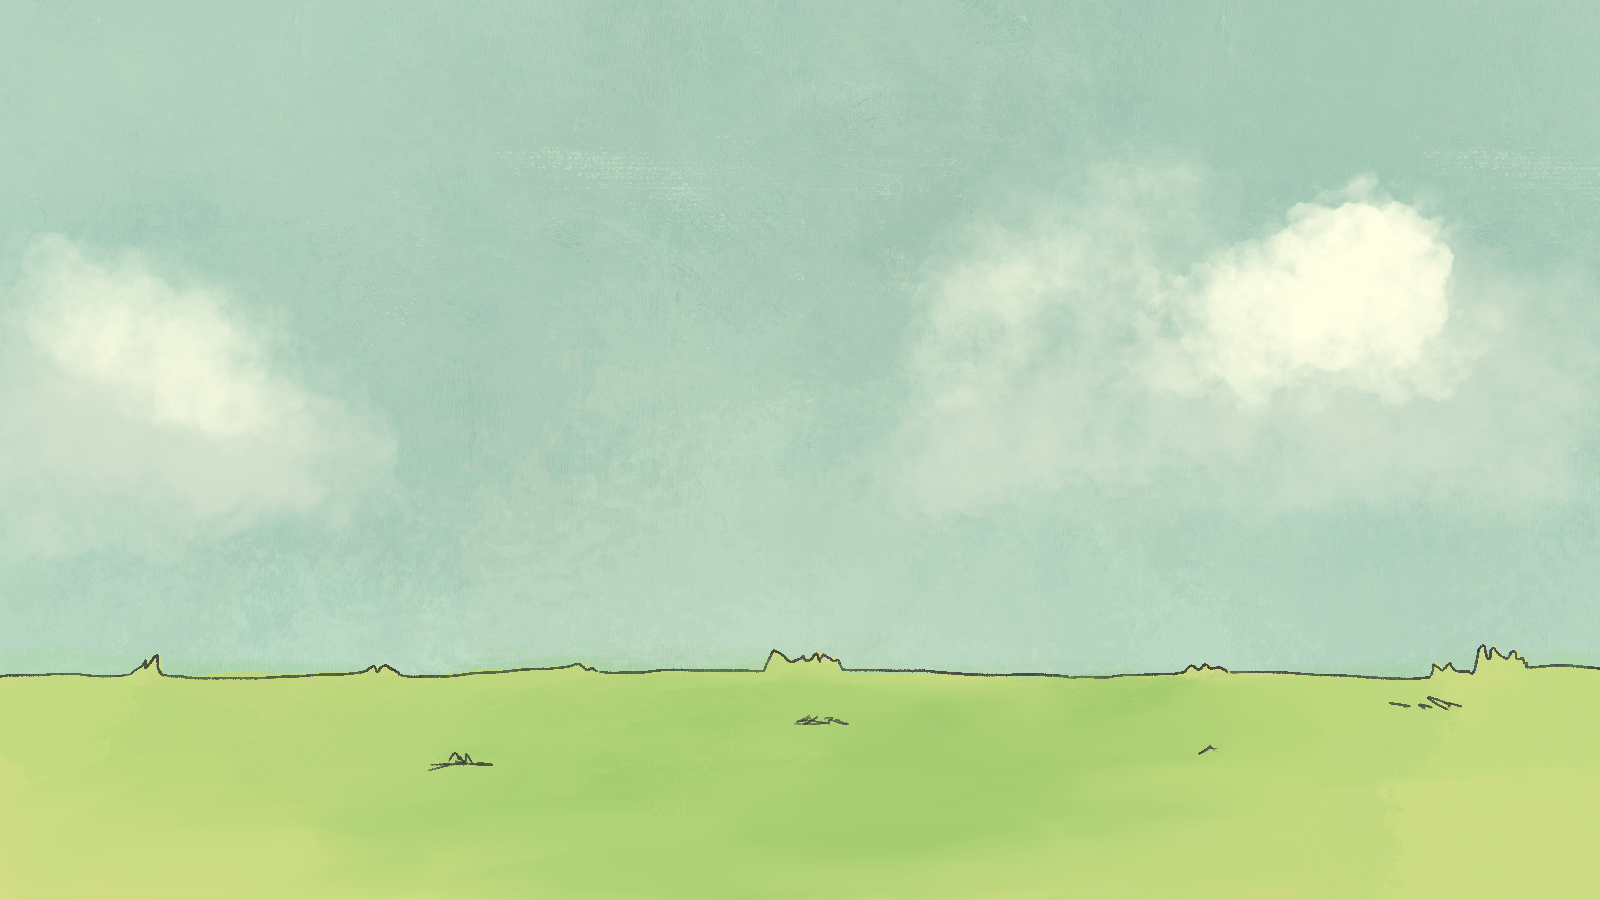
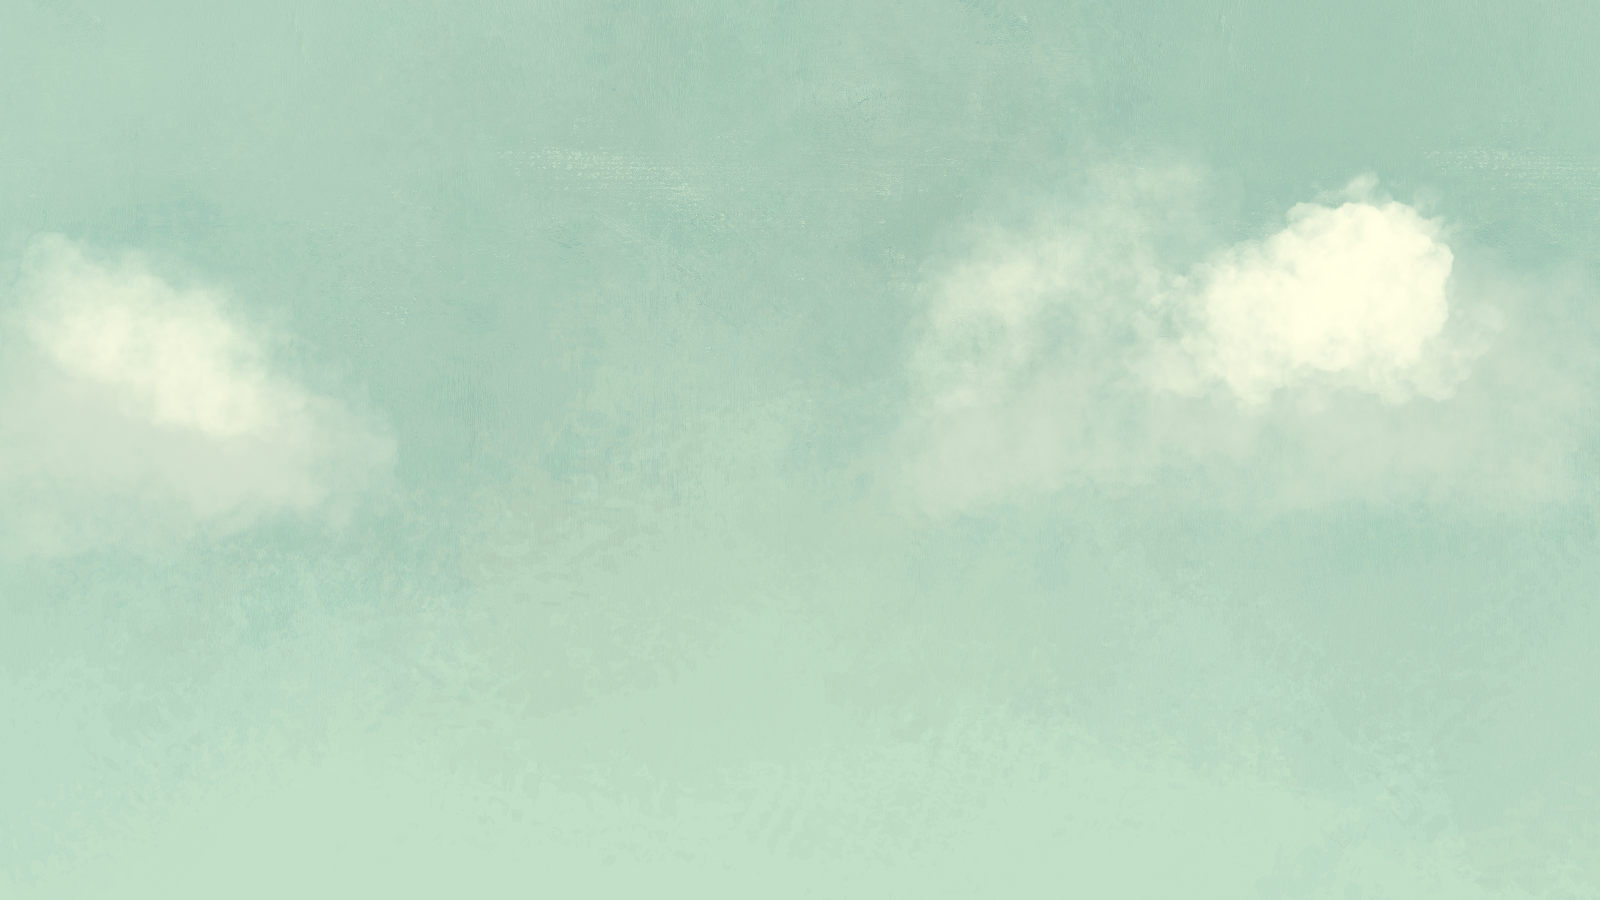
add backgrounds to game

Changed region(s): [[0.0, 0.7156, 1.0, 1.0]]

diff --git a/src/Controller.cpp b/src/Controller.cpp
@@ -2,7 +2,7 @@
 
 
 Controller::Controller() 
-	: m_window(), m_homePageScreen(), m_currPage(Page::HomePage)
+	: m_window(), m_homePageScreen(), m_currPage(Screen::HomePage)
 {
 }
 
@@ -18,14 +18,14 @@ void Controller::run()
 	}
 }
 
-void Controller::startGame(Page page, int level)
+void Controller::startGame(Screen page, int level)
 {
 	m_gameScreen.resetTimer();
 	m_gameScreen.loadLevel(level);
 	updatePage(page);
 }
 
-void Controller::updatePage(Page page)
+void Controller::updatePage(Screen page)
 {
 	m_currPage = page;
 }
@@ -44,20 +44,20 @@ void Controller::processEvents()
 
 		switch (m_currPage)
 		{
-		case Page::HomePage:
+		case Screen::HomePage:
 			m_homePageScreen.processEvents(event, *this);
 			break;
-		case Page::LevelMenu:
+		case Screen::LevelMenu:
 			m_levelMenuScreen.processEvents(event, *this);
 			break;
-		case Page::Game:
+		case Screen::Game:
 			m_gameScreen.processEvents(event, *this);
 			break;
 		default:
 			break;
 		}
 	}
-	if (m_currPage == Page::Game)
+	if (m_currPage == Screen::Game)
 		handleKeyboardPress();
 }
 
@@ -69,11 +69,11 @@ void Controller::update()
 	//move, update etc.
 	switch (m_currPage)
 	{
-	case Page::HomePage:
+	case Screen::HomePage:
 		break;
-	case Page::LevelMenu:
+	case Screen::LevelMenu:
 		break;
-	case Page::Game:
+	case Screen::Game:
 		m_gameScreen.update(deltaTime);
 		//m_world.getWorld()->DebugDraw();
 		break;
@@ -94,15 +94,15 @@ void Controller::drawCurrPage()
 	//Noga: maybe we can put all the screens class in vector or something and then we wont need all the switch case ? 
 	switch (m_currPage)
 	{
-	case Page::HomePage:
+	case Screen::HomePage:
 		m_window.drawScreen(m_homePageScreen); //Noga: this is the template function - works. 
 		//m_window.drawHomePage(m_homePageScreen);
 		break;
-	case Page::LevelMenu:
+	case Screen::LevelMenu:
 		m_window.drawScreen(m_levelMenuScreen); 
 		//m_window.drawLevelMenuPage(m_levelMenuScreen);
 		break;
-	case Page::Game:
+	case Screen::Game:
 		m_window.drawScreen(m_gameScreen); 
 		//m_window.drawGame(m_gameScreen);
 		break;

diff --git a/include/Resources.h b/include/Resources.h
@@ -18,7 +18,7 @@ public:
 
 	//Access Functions
 	sf::Font* getFont();
-	sf::Texture* getBackground(Backgrounds index);
+	sf::Texture* getBackground(Screen index);
 	sf::Texture* getPlayerTexture(Player player);
 	sf::Texture* getPlayerFaceTexture(Player player);
 	sf::Texture* getPlayerArrowTexture();
@@ -66,10 +66,11 @@ private:
 	std::vector<sf::Texture> m_levelMenuTexture;
 	std::vector<sf::Texture> m_homePageBtnsTexture;
 	std::vector<sf::Texture> m_levelActionButtonsTexture;
+	std::vector<sf::Texture> m_backgroundTextures;
 
-	sf::Texture m_backgroundTextures[NUM_OF_BG_TEXTURES];
-	std::string m_fileBackground[NUM_OF_BG_TEXTURES]{ "home_screen_bg.jpg", "game_background.png", /*"win.png", "Lose.png", "Help.png"*/ };
-	
+	//sf::Texture m_backgroundTextures[NUM_OF_BG_TEXTURES];
+	//std::string m_fileBackground[NUM_OF_BG_TEXTURES]{ "home_screen_bg.jpg", "game_background.png", /*"win.png", "Lose.png", "Help.png"*/ };
+	//
 	
 
 	////Audio

diff --git a/src/Resources.cpp b/src/Resources.cpp
@@ -41,7 +41,7 @@ sf::Font* Resources::getFont()
 
 //-----------------------------------------------------------------
 	
-sf::Texture* Resources::getBackground(Backgrounds index)
+sf::Texture* Resources::getBackground(Screen index)
 {
 	return &m_backgroundTextures[int(index)];
 }
@@ -109,10 +109,12 @@ void Resources::loadFont()
 
 void Resources::loadBackgroundTextures()
 {
-	for (int i = 0; i < NUM_OF_BG_TEXTURES; ++i)
+	m_backgroundTextures.resize(NUM_OF_BG_TEXTURES);
+	if (!m_backgroundTextures[(int)Screen::HomePage].loadFromFile("home_background.jpg")
+		|| !m_backgroundTextures[(int)Screen::LevelMenu].loadFromFile("levelmenu_background.png")
+		|| !m_backgroundTextures[(int)Screen::Game].loadFromFile("game_background.png"))
 	{
-		if (!m_backgroundTextures[i].loadFromFile(m_fileBackground[i]))
-			exit(EXIT_FAILURE);
+		std::cerr << "error loading bg textures from file\n";
 	}
 }
 

diff --git a/src/Screens/HomePageScreen.cpp b/src/Screens/HomePageScreen.cpp
@@ -7,7 +7,7 @@ HomePageScreen::HomePageScreen()
 	setHelpScreen();
 
 	m_background.setSize(sf::Vector2f(WINDOW_WIDTH, WINDOW_HEIGHT));
-	m_background.setTexture(Resources::instance().getBackground(Backgrounds::menu));
+	m_background.setTexture(Resources::instance().getBackground(Screen::HomePage));
 	// 
 	//m_buttons.resize(int(ButtonType::Exit) + 1);
 	m_buttons.emplace_back(Button(*Resources::instance().getHomePageBtnsTexture(HomeButtonType::Start) ,HOME_BTN_SIZE));
@@ -97,7 +97,7 @@ void HomePageScreen::handleClick(sf::Event event, Controller &controller)
 	case HomePageScreen::PageStatus::Menu:
 	{
 		if (m_buttons[(int)HomeButtonType::Start].isContain(event))
-			controller.updatePage(Page::LevelMenu);
+			controller.updatePage(Screen::LevelMenu);
 	
 		else if (m_buttons[(int)HomeButtonType::Help].isContain(event))
 		{

diff --git a/src/Screens/GameScreen.cpp b/src/Screens/GameScreen.cpp
@@ -3,14 +3,17 @@
 
 
 GameScreen::GameScreen()
-    : m_activePlayer(Player::Heavy)
+    : m_activePlayer(Player::Heavy),
+      m_background(sf::Vector2f(WINDOW_WIDTH, WINDOW_HEIGHT))
 {
+    m_background.setTexture(Resources::instance().getBackground(Screen::Game));
 }
 
 //-----------------------------------------------------------------
 
 void GameScreen::draw(sf::RenderWindow& window)
 {
+    window.draw(m_background);
 	m_world.draw(window);
 	m_dataDisplay.draw(window);
 
@@ -34,7 +37,7 @@ void GameScreen::processEvents(sf::Event event, Controller &controller)
         }
         else if (event.key.code == sf::Keyboard::Escape)
         {
-            controller.updatePage(Page::HomePage);
+            controller.updatePage(Screen::HomePage);
         }
         break;
     }

diff --git a/src/Screens/LevelMenuScreen.cpp b/src/Screens/LevelMenuScreen.cpp
@@ -5,7 +5,7 @@ LevelMenuScreen::LevelMenuScreen()
 	: m_levels(10 , TitledButton(*Resources::instance().getLevelMenuTexture(LevelState::Lock), sf::Vector2f(LEVEL_MENU_BTN_SIZE, LEVEL_MENU_BTN_SIZE), "", 50.f, sf::Vector2f(0.f,0.f), *Resources::instance().getFont()))
 	, m_background(sf::Vector2f(WINDOW_WIDTH, WINDOW_HEIGHT))
 {
-	m_background.setTexture(Resources::instance().getBackground(Backgrounds::levelmenu));
+	m_background.setTexture(Resources::instance().getBackground(Screen::LevelMenu));
 	initBtns();	
 }
 
@@ -45,7 +45,7 @@ void LevelMenuScreen::handleClick(sf::Event event, Controller& controller)
 	{
 		if (m_levels[i].isContain(event) && i < m_numOfLevelsCompleted)
 		{
-			controller.startGame(Page::Game, i+1);
+			controller.startGame(Screen::Game, i+1);
 		}
 	}
 }

diff --git a/include/Controller.h b/include/Controller.h
@@ -22,8 +22,8 @@ public:
 
 	void run();
 	
-	void startGame(Page page, int level);
-	void updatePage(Page page);
+	void startGame(Screen page, int level);
+	void updatePage(Screen page);
 	void exit();
 
 private:
@@ -37,7 +37,7 @@ private:
 
 	Window m_window;
 	sf::Clock m_timer;
-	Page m_currPage;
+	Screen m_currPage;
 	
 	//=== Screens
 	HomePageScreen m_homePageScreen;

diff --git a/include/Utilities.h b/include/Utilities.h
@@ -2,7 +2,7 @@
 
 #include <iostream>
 
-enum class Page
+enum class Screen
 {
 	HomePage = 0,
 	LevelMenu,
@@ -17,16 +17,6 @@ enum class HomeButtonType
 	Settings,
 	Exit,
 	None
-};
-
-enum class Backgrounds
-{
-	menu = 0,
-	levelmenu,
-	game,
-	win,
-	lose,
-	help,
 };
 
 enum class Player

diff --git a/include/Macros.h b/include/Macros.h
@@ -31,7 +31,7 @@ const sf::Vector2f HOME_BTN_SIZE(350, 150);
 
 //players
 const int NUM_OF_PLAYERS = 3;
-const int NUM_OF_BG_TEXTURES = 2;
+const int NUM_OF_BG_TEXTURES = 3;
 const float BASE_SPEED = 130.0;
 const std::string PLAYERS[NUM_OF_PLAYERS] = { "Heavy", "Simple", "Light" };
 

diff --git a/include/Screens/GameScreen.h b/include/Screens/GameScreen.h
@@ -22,4 +22,6 @@ private:
 	World m_world;
 	DataDisplay m_dataDisplay;
 	Player m_activePlayer;
+
+	sf::RectangleShape m_background;
 };
